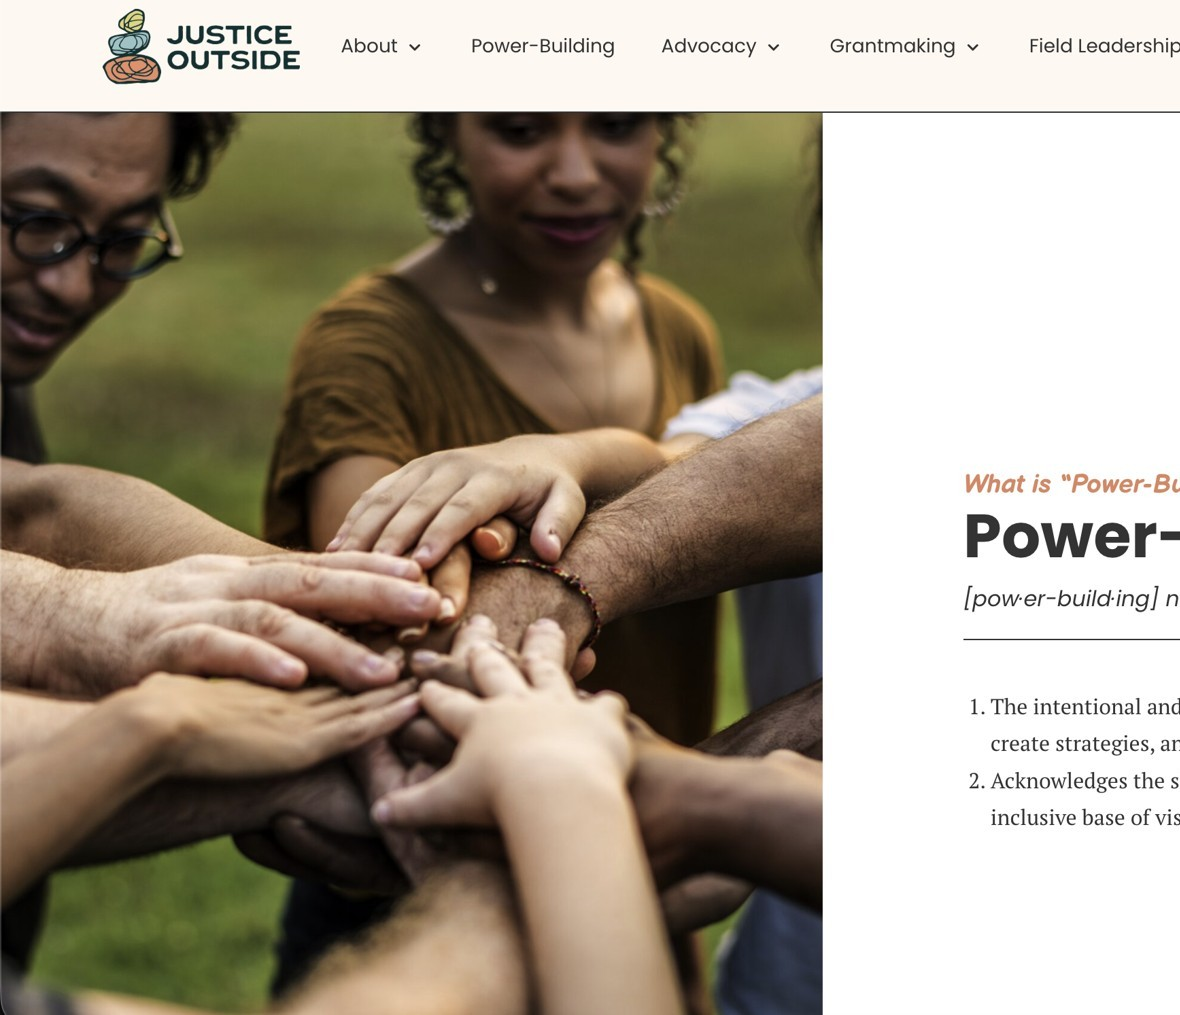
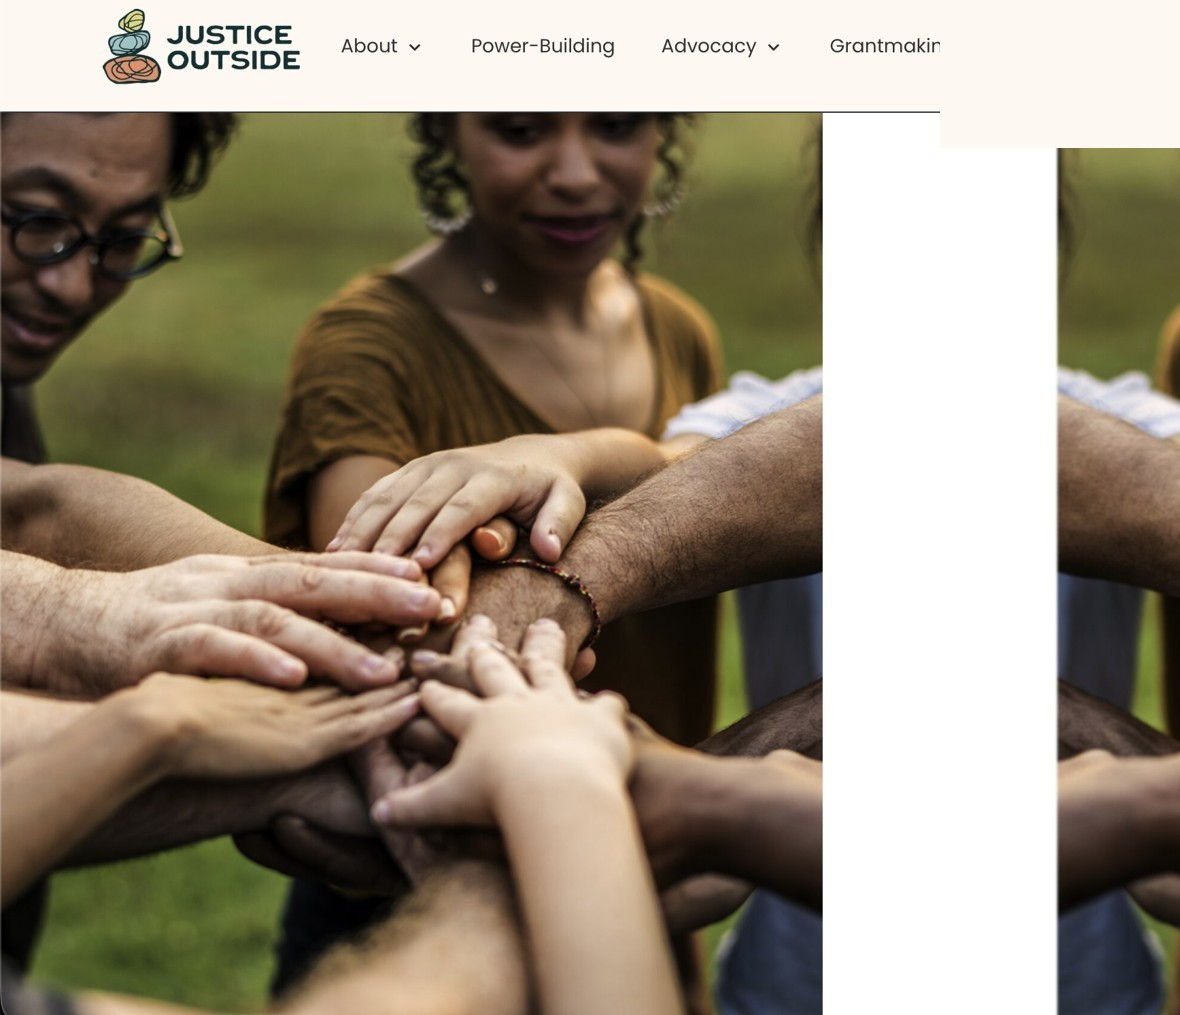
Results lines: one style and alignment across the work pages
Claude-Session: https://claude.ai/code/session_018WtTTL8vv3fxFjCsvYoeKi

Changed region(s): [[0.7932, 0.1222, 1.0, 1.0], [0.8847, 0.0305, 1.0, 0.0611], [0.7932, 0.0305, 0.8237, 0.0611]]

diff --git a/index.html b/index.html
@@ -133,19 +133,19 @@ h1,h2{margin:0;font-family:var(--display);font-weight:400;line-height:1;letter-s
 /* ---------- 5/6 · photo rows ---------- */
 .row h2{font-size:3.9rem;line-height:1.05}
 .row .lede{font-size:1.45rem;line-height:1.38}
-.row .photo{top:20.7rem;width:20rem;height:26.05rem;object-fit:cover;border-radius:1.2rem}
+.row .photo{top:19.8rem;width:20rem;height:26.05rem;object-fit:cover;border-radius:1.2rem}
 .row .p1{left:4.1rem}.row .p2{left:25.85rem}.row .p3{left:47.6rem}.row .p4{left:69.35rem}
-.row .caption{left:5.4rem;top:48.2rem;font-size:1.45rem}
+.row .caption{left:5.4rem;top:46.6rem;font-size:1.45rem}
 #art h2{left:5.4rem;top:6.1rem}
 #art .lede{left:38.4rem;top:8.3rem;width:49rem}
-#print h2{left:6.5rem;top:3.4rem}
-#print .lede{left:6.5rem;top:11.8rem;width:64.5rem}
+#print h2{left:5.4rem;top:3.4rem}
+#print .lede{left:5.4rem;top:11.8rem;width:64.5rem}
 
 /* ---------- 7 · events ---------- */
 #events .banner{left:22.75rem;top:6rem;width:30.75rem;border-radius:1rem}
 #events .rack{left:56.65rem;top:6rem;width:32.85rem;border-radius:1rem}
 #events h2{left:5.4rem;top:33.6rem;font-size:3.9rem;white-space:nowrap}
-#events .text{left:5.4rem;top:38.1rem;width:50rem;font-size:1.45rem;line-height:1.38;text-align:justify;hyphens:manual}
+#events .text{left:5.4rem;top:37.6rem;width:50rem;font-size:1.45rem;line-height:1.38;text-align:justify;hyphens:manual}
 #events .caption{left:5.4rem;top:48.2rem;font-size:1.45rem}
 
 /* ---------- 8 · digital ---------- */
@@ -176,15 +176,12 @@ h1,h2{margin:0;font-family:var(--display);font-weight:400;line-height:1;letter-s
 
 
 /* ---------- results lines ---------- */
-.results{font-size:1.05rem;line-height:1.32}
-.results .lbl{font-family:var(--mono);text-transform:uppercase;letter-spacing:.14em;font-size:.72rem;margin-right:.6em;opacity:.85}
+.results{font-size:1.15rem;line-height:1.35}
+.results .lbl{font-family:var(--mono);text-transform:uppercase;letter-spacing:.14em;font-size:.75rem;margin-right:.6em;opacity:.85}
 .results .lbl::after{content:' \00b7'}
-#branding .results{left:45.9rem;top:50.3rem;width:48rem}
-#art .results{left:38.4rem;top:13.8rem;width:49rem}
-#print .caption{top:47.3rem}
-#print .results{left:6.5rem;top:49.3rem;width:86rem}
-#events .caption{top:47.1rem}
-#events .results{left:5.4rem;top:49.2rem;width:86rem}
+#branding .results{left:45.9rem;top:50.2rem;width:48rem}
+.row .results,#events .results{left:5.4rem;top:48.7rem;width:88rem}
+#events .caption{top:46.6rem}
 #digital .results{left:5.4rem;top:23.6rem;width:22.6rem}
 
 /* ---------- zoom (lightbox) ---------- */
@@ -361,7 +358,6 @@ body.lb-open{overflow:hidden}
   <div class="stage">
     <h2 data-anim="left">Art direction<br>and shoots</h2>
     <p class="lede" data-anim="rise" style="--d:250ms">I plan styled shoots from the first idea to the final frame. I arrange the models and direct the look on set, so the photos feel like the brand before anyone edits them.</p>
-    <p class="results" data-anim="rise" style="--d:350ms"><span class="lbl">My role</span>Concept, shot list, model arrangement, and on-set direction for Justice Outside's EdVenture Day shoot.</p>
     <div class="photo-grid">
       <img class="photo p1 zoom" src="img/art-1.jpg" data-full="img/full/art-1.jpg" alt="Hands arranging flowers and raffia on an orange table" data-anim="rise" style="--d:350ms" width="400" height="521">
       <img class="photo p2 zoom" src="img/art-2.jpg" data-full="img/full/art-2.jpg" alt="A young woman smiling while weaving a basket outdoors" data-anim="rise" style="--d:450ms" width="400" height="521">
@@ -369,6 +365,7 @@ body.lb-open{overflow:hidden}
       <img class="photo p4 zoom" src="img/art-4.jpg" data-full="img/full/art-4.jpg" alt="A facilitator talking with a participant among redwood trees" data-anim="rise" style="--d:650ms" width="400" height="521">
     </div>
     <p class="caption" data-anim="rise" style="--d:800ms">Featured: Justice Outside EdVenture Day</p>
+    <p class="results" data-anim="rise" style="--d:900ms"><span class="lbl">My role</span>Concept, shot list, model arrangement, and on-set direction.</p>
   </div>
 </section>
 
